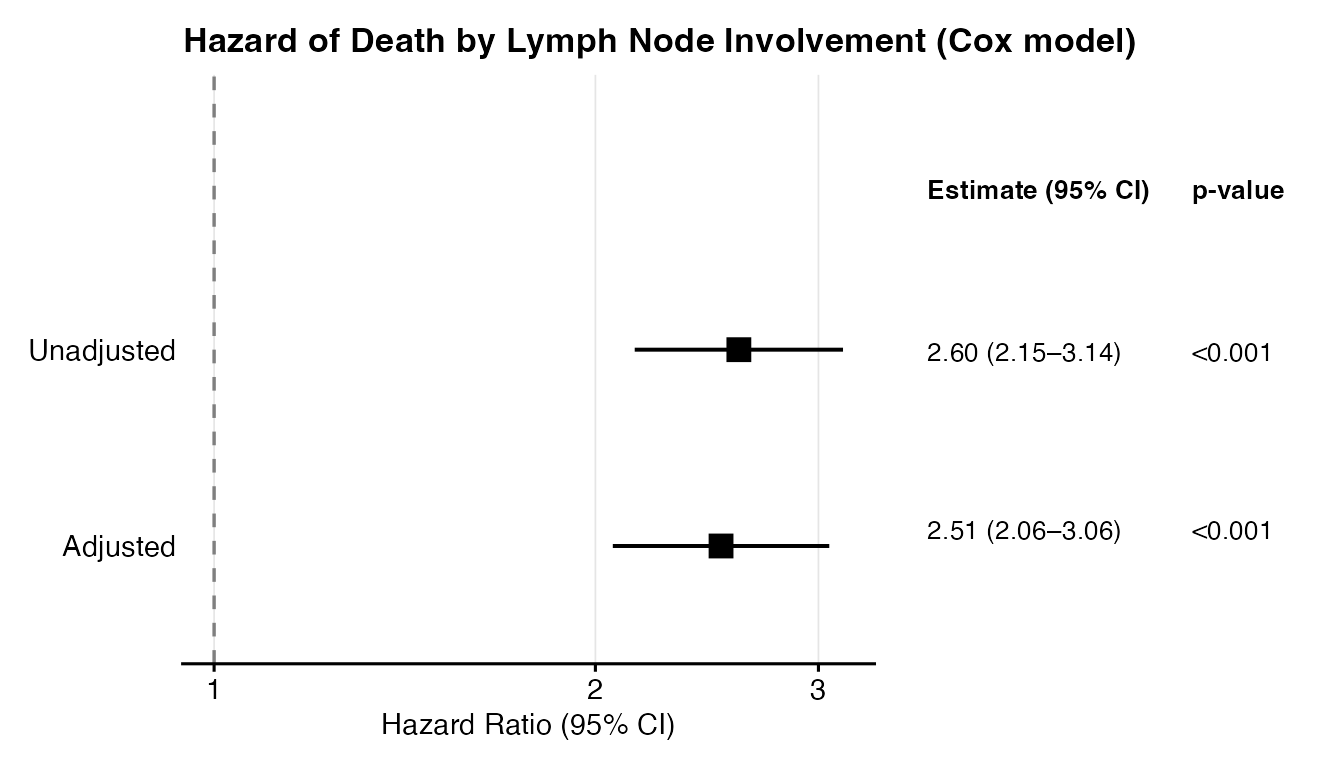
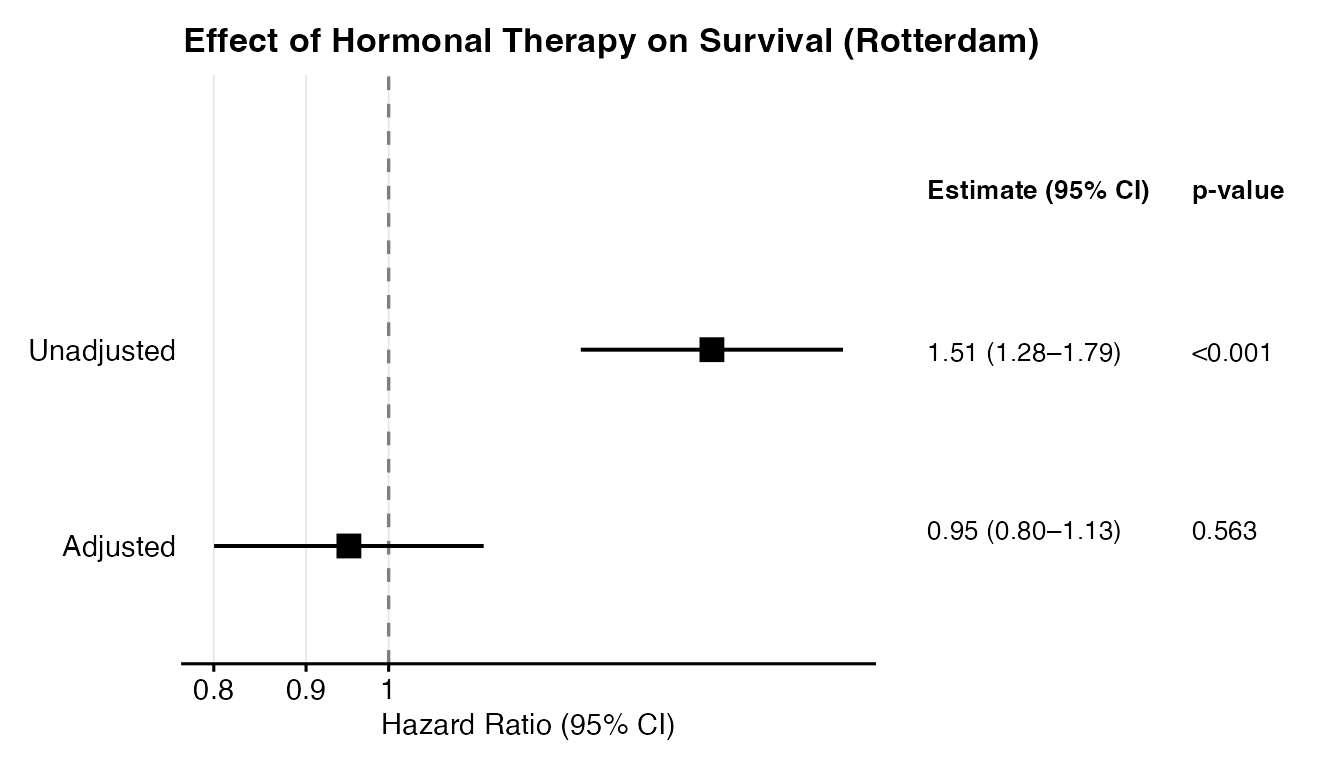
v0.1.1: CRAN install instructions; rotterdam Cox example
- Bump version to 0.1.1
- Update install instructions to reflect CRAN availability
- Replace vignette/README Cox example with rotterdam breast cancer data
  (hormonal therapy → survival, n=2982, Rotterdam tumour bank)
- Add tidyr::drop_na() data preparation step to Cox example
- Update NEWS.md

diff --git a/docs/articles/introduction.html b/docs/articles/introduction.html
@@ -20,7 +20,7 @@
 
     <a class="navbar-brand me-2" href="../index.html">ggadjustedforest</a>
 
-    <small class="nav-text text-muted me-auto" data-bs-toggle="tooltip" data-bs-placement="bottom" title="">0.1.0</small>
+    <small class="nav-text text-muted me-auto" data-bs-toggle="tooltip" data-bs-placement="bottom" title="">0.1.1</small>
 
 
     <button class="navbar-toggler" type="button" data-bs-toggle="collapse" data-bs-target="#navbar" aria-controls="navbar" aria-expanded="false" aria-label="Toggle navigation">
@@ -69,7 +69,10 @@
 <h2 id="installation">Installation<a class="anchor" aria-label="anchor" href="#installation"></a>
 </h2>
 <div class="sourceCode" id="cb1"><pre class="downlit sourceCode r">
-<code class="sourceCode R"><span><span class="co"># Install from GitHub (CRAN submission pending)</span></span>
+<code class="sourceCode R"><span><span class="co"># Install from CRAN</span></span>
+<span><span class="fu"><a href="https://rdrr.io/r/utils/install.packages.html" class="external-link">install.packages</a></span><span class="op">(</span><span class="st">"ggadjustedforest"</span><span class="op">)</span></span>
+<span></span>
+<span><span class="co"># Or install the development version from GitHub</span></span>
 <span><span class="co"># install.packages("remotes")</span></span>
 <span><span class="fu">remotes</span><span class="fu">::</span><span class="fu">install_github</span><span class="op">(</span><span class="st">"kriz98/gg_adjusted_forest"</span><span class="op">)</span></span></code></pre></div>
 </div>
@@ -215,17 +218,46 @@ epidemiological reporting — use <code>cumulative = TRUE</code>. Use
 <h2 id="cox-proportional-hazards-regression">Cox proportional hazards regression<a class="anchor" aria-label="anchor" href="#cox-proportional-hazards-regression"></a>
 </h2>
 <p>For time-to-event outcomes supply <code>model_type = "coxph"</code>
-along with <code>time_var</code> and <code>event_var</code>:</p>
+along with <code>time_var</code> and <code>event_var</code>. This
+example uses the <code>rotterdam</code> breast cancer dataset from the
+<strong>survival</strong> package (2,982 primary breast cancer patients;
+Rotterdam tumour bank). The exposure of interest is hormonal therapy
+(<code>hormon</code>), adjusted for age, tumour size, grade, number of
+positive lymph nodes, and oestrogen receptor level.</p>
 <div class="sourceCode" id="cb7"><pre class="downlit sourceCode r">
-<code class="sourceCode R"><span><span class="va">result_cox</span> <span class="op">&lt;-</span> <span class="fu"><a href="../reference/gg_adjusted_forest.html">gg_adjusted_forest</a></span><span class="op">(</span></span>
-<span>  data       <span class="op">=</span> <span class="va">colon_s</span>,</span>
-<span>  outcome    <span class="op">=</span> <span class="st">"status"</span>,</span>
-<span>  exposure   <span class="op">=</span> <span class="st">"node4"</span>,</span>
-<span>  covariates <span class="op">=</span> <span class="va">confounders</span>,</span>
+<code class="sourceCode R"><span><span class="kw"><a href="https://rdrr.io/r/base/library.html" class="external-link">library</a></span><span class="op">(</span><span class="va"><a href="https://dplyr.tidyverse.org" class="external-link">dplyr</a></span><span class="op">)</span></span>
+<span><span class="co">#&gt; </span></span>
+<span><span class="co">#&gt; Attaching package: 'dplyr'</span></span>
+<span><span class="co">#&gt; The following objects are masked from 'package:stats':</span></span>
+<span><span class="co">#&gt; </span></span>
+<span><span class="co">#&gt;     filter, lag</span></span>
+<span><span class="co">#&gt; The following objects are masked from 'package:base':</span></span>
+<span><span class="co">#&gt; </span></span>
+<span><span class="co">#&gt;     intersect, setdiff, setequal, union</span></span>
+<span><span class="fu"><a href="https://rdrr.io/r/utils/data.html" class="external-link">data</a></span><span class="op">(</span><span class="va">cancer</span>, package <span class="op">=</span> <span class="st">"survival"</span><span class="op">)</span></span>
+<span></span>
+<span><span class="va">df</span> <span class="op">&lt;-</span> <span class="va">rotterdam</span> <span class="op">|&gt;</span></span>
+<span>  <span class="fu"><a href="https://dplyr.tidyverse.org/reference/transmute.html" class="external-link">transmute</a></span><span class="op">(</span></span>
+<span>    hormon <span class="op">=</span> <span class="va">hormon</span>,       <span class="co"># 1 = hormonal therapy, 0 = none</span></span>
+<span>    age    <span class="op">=</span> <span class="va">age</span>,</span>
+<span>    size   <span class="op">=</span> <span class="va">size</span>,         <span class="co"># tumour size (mm)</span></span>
+<span>    grade  <span class="op">=</span> <span class="va">grade</span>,        <span class="co"># tumour grade</span></span>
+<span>    nodes  <span class="op">=</span> <span class="va">nodes</span>,        <span class="co"># positive lymph nodes</span></span>
+<span>    er10   <span class="op">=</span> <span class="va">er</span> <span class="op">/</span> <span class="fl">10</span>,      <span class="co"># oestrogen receptor (fmol/10 l)</span></span>
+<span>    death  <span class="op">=</span> <span class="va">death</span>,</span>
+<span>    time   <span class="op">=</span> <span class="va">dtime</span></span>
+<span>  <span class="op">)</span> <span class="op">|&gt;</span></span>
+<span>  <span class="fu">tidyr</span><span class="fu">::</span><span class="fu"><a href="https://tidyr.tidyverse.org/reference/drop_na.html" class="external-link">drop_na</a></span><span class="op">(</span><span class="op">)</span></span>
+<span></span>
+<span><span class="va">result_cox</span> <span class="op">&lt;-</span> <span class="fu"><a href="../reference/gg_adjusted_forest.html">gg_adjusted_forest</a></span><span class="op">(</span></span>
+<span>  data       <span class="op">=</span> <span class="va">df</span>,</span>
+<span>  outcome    <span class="op">=</span> <span class="st">"death"</span>,</span>
+<span>  exposure   <span class="op">=</span> <span class="st">"hormon"</span>,</span>
+<span>  covariates <span class="op">=</span> <span class="fu"><a href="https://rdrr.io/r/base/c.html" class="external-link">c</a></span><span class="op">(</span><span class="st">"age"</span>, <span class="st">"size"</span>, <span class="st">"grade"</span>, <span class="st">"nodes"</span>, <span class="st">"er10"</span><span class="op">)</span>,</span>
 <span>  model_type <span class="op">=</span> <span class="st">"coxph"</span>,</span>
-<span>  time_var   <span class="op">=</span> <span class="st">"time.years"</span>,</span>
-<span>  event_var  <span class="op">=</span> <span class="st">"status"</span>,</span>
-<span>  title      <span class="op">=</span> <span class="st">"Hazard of Death by Lymph Node Involvement (Cox model)"</span></span>
+<span>  time_var   <span class="op">=</span> <span class="st">"time"</span>,</span>
+<span>  event_var  <span class="op">=</span> <span class="st">"death"</span>,</span>
+<span>  title      <span class="op">=</span> <span class="st">"Effect of Hormonal Therapy on Survival (Rotterdam)"</span></span>
 <span><span class="op">)</span></span>
 <span><span class="va">result_cox</span><span class="op">$</span><span class="va">plot</span></span></code></pre></div>
 <p><img src="introduction_files/figure-html/cox-1.png" class="r-plt" alt="" width="672"></p>

diff --git a/docs/index.html b/docs/index.html
@@ -22,7 +22,7 @@
 
     <a class="navbar-brand me-2" href="index.html">ggadjustedforest</a>
 
-    <small class="nav-text text-muted me-auto" data-bs-toggle="tooltip" data-bs-placement="bottom" title="">0.1.0</small>
+    <small class="nav-text text-muted me-auto" data-bs-toggle="tooltip" data-bs-placement="bottom" title="">0.1.1</small>
 
 
     <button class="navbar-toggler" type="button" data-bs-toggle="collapse" data-bs-target="#navbar" aria-controls="navbar" aria-expanded="false" aria-label="Toggle navigation">
@@ -67,7 +67,10 @@
 <h2 id="installation">Installation<a class="anchor" aria-label="anchor" href="#installation"></a>
 </h2>
 <div class="sourceCode" id="cb1"><pre class="downlit sourceCode r">
-<code class="sourceCode R"><span><span class="co"># Install from GitHub (CRAN submission pending)</span></span>
+<code class="sourceCode R"><span><span class="co"># Install from CRAN</span></span>
+<span><span class="fu"><a href="https://rdrr.io/r/utils/install.packages.html" class="external-link">install.packages</a></span><span class="op">(</span><span class="st">"ggadjustedforest"</span><span class="op">)</span></span>
+<span></span>
+<span><span class="co"># Or install the development version from GitHub</span></span>
 <span><span class="co"># install.packages("remotes")</span></span>
 <span><span class="fu">remotes</span><span class="fu">::</span><span class="fu">install_github</span><span class="op">(</span><span class="st">"kriz98/gg_adjusted_forest"</span><span class="op">)</span></span></code></pre></div>
 </div>
@@ -76,7 +79,7 @@
 </h2>
 <p>The examples below use <code>colon_s</code> from the <code>finalfit</code> package — 929 colon cancer patients from the NCCTG trial. The research question is whether having &gt;4 positive lymph nodes (<code>node4</code>) increases 5-year mortality (<code>mort_5yr</code>), before and after adjusting for patient and tumour characteristics.</p>
 <div class="sourceCode" id="cb2"><pre class="downlit sourceCode r">
-<code class="sourceCode R"><span><span class="kw"><a href="https://rdrr.io/r/base/library.html" class="external-link">library</a></span><span class="op">(</span><span class="va"><a href="https://github.com/chrisvarghese/ggadjustedforest" class="external-link">ggadjustedforest</a></span><span class="op">)</span></span>
+<code class="sourceCode R"><span><span class="kw"><a href="https://rdrr.io/r/base/library.html" class="external-link">library</a></span><span class="op">(</span><span class="va"><a href="https://github.com/kriz98/gg_adjusted_forest" class="external-link">ggadjustedforest</a></span><span class="op">)</span></span>
 <span><span class="kw"><a href="https://rdrr.io/r/base/library.html" class="external-link">library</a></span><span class="op">(</span><span class="va"><a href="https://github.com/ewenharrison/finalfit" class="external-link">finalfit</a></span><span class="op">)</span>  <span class="co"># for colon_s</span></span>
 <span></span>
 <span><span class="fu"><a href="https://rdrr.io/r/utils/data.html" class="external-link">data</a></span><span class="op">(</span><span class="va">colon_s</span><span class="op">)</span></span>
@@ -127,16 +130,32 @@
 <span>                          show_table <span class="op">=</span> <span class="cn">FALSE</span><span class="op">)</span><span class="op">$</span><span class="va">plot</span></span>
 <span><span class="va">p1</span> <span class="op">/</span> <span class="va">p2</span></span>
 <span></span>
-<span><span class="co"># Cox proportional hazards</span></span>
+<span><span class="co"># Cox proportional hazards — rotterdam breast cancer data (survival package)</span></span>
+<span><span class="kw"><a href="https://rdrr.io/r/base/library.html" class="external-link">library</a></span><span class="op">(</span><span class="va"><a href="https://dplyr.tidyverse.org" class="external-link">dplyr</a></span><span class="op">)</span></span>
+<span><span class="fu"><a href="https://rdrr.io/r/utils/data.html" class="external-link">data</a></span><span class="op">(</span><span class="va">cancer</span>, package <span class="op">=</span> <span class="st">"survival"</span><span class="op">)</span></span>
+<span></span>
+<span><span class="va">df</span> <span class="op">&lt;-</span> <span class="va">rotterdam</span> <span class="op">|&gt;</span></span>
+<span>  <span class="fu"><a href="https://dplyr.tidyverse.org/reference/transmute.html" class="external-link">transmute</a></span><span class="op">(</span></span>
+<span>    hormon <span class="op">=</span> <span class="va">hormon</span>,</span>
+<span>    age    <span class="op">=</span> <span class="va">age</span>,</span>
+<span>    size   <span class="op">=</span> <span class="va">size</span>,</span>
+<span>    grade  <span class="op">=</span> <span class="va">grade</span>,</span>
+<span>    nodes  <span class="op">=</span> <span class="va">nodes</span>,</span>
+<span>    er10   <span class="op">=</span> <span class="va">er</span> <span class="op">/</span> <span class="fl">10</span>,</span>
+<span>    death  <span class="op">=</span> <span class="va">death</span>,</span>
+<span>    time   <span class="op">=</span> <span class="va">dtime</span></span>
+<span>  <span class="op">)</span> <span class="op">|&gt;</span></span>
+<span>  <span class="fu">tidyr</span><span class="fu">::</span><span class="fu"><a href="https://tidyr.tidyverse.org/reference/drop_na.html" class="external-link">drop_na</a></span><span class="op">(</span><span class="op">)</span></span>
+<span></span>
 <span><span class="va">cox_result</span> <span class="op">&lt;-</span> <span class="fu"><a href="reference/gg_adjusted_forest.html">gg_adjusted_forest</a></span><span class="op">(</span></span>
-<span>  data       <span class="op">=</span> <span class="va">colon_s</span>,</span>
-<span>  outcome    <span class="op">=</span> <span class="st">"status"</span>,</span>
-<span>  exposure   <span class="op">=</span> <span class="st">"node4"</span>,</span>
-<span>  covariates <span class="op">=</span> <span class="va">confounders</span>,</span>
+<span>  data       <span class="op">=</span> <span class="va">df</span>,</span>
+<span>  outcome    <span class="op">=</span> <span class="st">"death"</span>,</span>
+<span>  exposure   <span class="op">=</span> <span class="st">"hormon"</span>,</span>
+<span>  covariates <span class="op">=</span> <span class="fu"><a href="https://rdrr.io/r/base/c.html" class="external-link">c</a></span><span class="op">(</span><span class="st">"age"</span>, <span class="st">"size"</span>, <span class="st">"grade"</span>, <span class="st">"nodes"</span>, <span class="st">"er10"</span><span class="op">)</span>,</span>
 <span>  model_type <span class="op">=</span> <span class="st">"coxph"</span>,</span>
-<span>  time_var   <span class="op">=</span> <span class="st">"time.years"</span>,</span>
-<span>  event_var  <span class="op">=</span> <span class="st">"status"</span>,</span>
-<span>  title      <span class="op">=</span> <span class="st">"Hazard of Death by Lymph Node Involvement"</span></span>
+<span>  time_var   <span class="op">=</span> <span class="st">"time"</span>,</span>
+<span>  event_var  <span class="op">=</span> <span class="st">"death"</span>,</span>
+<span>  title      <span class="op">=</span> <span class="st">"Effect of Hormonal Therapy on Survival (Rotterdam)"</span></span>
 <span><span class="op">)</span></span>
 <span><span class="va">cox_result</span><span class="op">$</span><span class="va">plot</span></span></code></pre></div>
 </div>
@@ -191,6 +210,7 @@
   </main><aside class="col-md-3"><div class="links">
 <h2 data-toc-skip>Links</h2>
 <ul class="list-unstyled">
+<li><a href="https://cloud.r-project.org/package=ggadjustedforest" class="external-link">View on CRAN</a></li>
 <li><a href="https://github.com/kriz98/gg_adjusted_forest/" class="external-link">Browse source code</a></li>
 <li><a href="https://github.com/kriz98/gg_adjusted_forest/issues" class="external-link">Report a bug</a></li>
 </ul>

diff --git a/docs/news/index.html b/docs/news/index.html
@@ -7,7 +7,7 @@
 
     <a class="navbar-brand me-2" href="../index.html">ggadjustedforest</a>
 
-    <small class="nav-text text-muted me-auto" data-bs-toggle="tooltip" data-bs-placement="bottom" title="">0.1.0</small>
+    <small class="nav-text text-muted me-auto" data-bs-toggle="tooltip" data-bs-placement="bottom" title="">0.1.1</small>
 
 
     <button class="navbar-toggler" type="button" data-bs-toggle="collapse" data-bs-target="#navbar" aria-controls="navbar" aria-expanded="false" aria-label="Toggle navigation">
@@ -37,7 +37,16 @@
     </div>
 
     <div class="section level2">
-<h2 class="pkg-version" data-toc-text="0.1.0" id="ggadjustedforest-010">ggadjustedforest 0.1.0<a class="anchor" aria-label="anchor" href="#ggadjustedforest-010"></a></h2>
+<h2 class="pkg-version" data-toc-text="0.1.1" id="ggadjustedforest-011">ggadjustedforest 0.1.1<a class="anchor" aria-label="anchor" href="#ggadjustedforest-011"></a></h2>
+<div class="section level3">
+<h3 id="documentation-0-1-1">Documentation<a class="anchor" aria-label="anchor" href="#documentation-0-1-1"></a></h3>
+<ul><li>Updated vignette and README examples to use the <code>rotterdam</code> breast cancer dataset (from <strong>survival</strong>) for the Cox model demonstration.</li>
+<li>Installation instructions updated to reflect CRAN availability.</li>
+<li>Long plot titles now wrap automatically to prevent clipping.</li>
+</ul></div>
+</div>
+    <div class="section level2">
+<h2 class="pkg-version" data-toc-text="0.1.0" id="ggadjustedforest-010">ggadjustedforest 0.1.0<a class="anchor" aria-label="anchor" href="#ggadjustedforest-010"></a></h2><p class="text-muted">CRAN release: 2026-07-17</p>
 <div class="section level3">
 <h3 id="initial-release-0-1-0">Initial release<a class="anchor" aria-label="anchor" href="#initial-release-0-1-0"></a></h3>
 <ul><li>

diff --git a/docs/authors.html b/docs/authors.html
@@ -7,7 +7,7 @@
 
     <a class="navbar-brand me-2" href="index.html">ggadjustedforest</a>
 
-    <small class="nav-text text-muted me-auto" data-bs-toggle="tooltip" data-bs-placement="bottom" title="">0.1.0</small>
+    <small class="nav-text text-muted me-auto" data-bs-toggle="tooltip" data-bs-placement="bottom" title="">0.1.1</small>
 
 
     <button class="navbar-toggler" type="button" data-bs-toggle="collapse" data-bs-target="#navbar" aria-controls="navbar" aria-expanded="false" aria-label="Toggle navigation">
@@ -50,13 +50,13 @@
 
       <p>Varghese C (2026).
 <em>ggadjustedforest: Publication Ready Forest Plots for Estimand of Interest</em>.
-R package version 0.1.0, <a href="https://github.com/kriz98/gg_adjusted_forest" class="external-link">https://github.com/kriz98/gg_adjusted_forest</a>.
+R package version 0.1.1, <a href="https://github.com/kriz98/gg_adjusted_forest" class="external-link">https://github.com/kriz98/gg_adjusted_forest</a>.
 </p>
       <pre>@Manual{,
   title = {ggadjustedforest: Publication Ready Forest Plots for Estimand of Interest},
   author = {Chris Varghese},
   year = {2026},
-  note = {R package version 0.1.0},
+  note = {R package version 0.1.1},
   url = {https://github.com/kriz98/gg_adjusted_forest},
 }</pre>
     </div>

diff --git a/docs/404.html b/docs/404.html
@@ -20,7 +20,7 @@
 
     <a class="navbar-brand me-2" href="https://kriz98.github.io/gg_adjusted_forest/index.html">ggadjustedforest</a>
 
-    <small class="nav-text text-muted me-auto" data-bs-toggle="tooltip" data-bs-placement="bottom" title="">0.1.0</small>
+    <small class="nav-text text-muted me-auto" data-bs-toggle="tooltip" data-bs-placement="bottom" title="">0.1.1</small>
 
 
     <button class="navbar-toggler" type="button" data-bs-toggle="collapse" data-bs-target="#navbar" aria-controls="navbar" aria-expanded="false" aria-label="Toggle navigation">

diff --git a/docs/LICENSE-text.html b/docs/LICENSE-text.html
@@ -7,7 +7,7 @@
 
     <a class="navbar-brand me-2" href="index.html">ggadjustedforest</a>
 
-    <small class="nav-text text-muted me-auto" data-bs-toggle="tooltip" data-bs-placement="bottom" title="">0.1.0</small>
+    <small class="nav-text text-muted me-auto" data-bs-toggle="tooltip" data-bs-placement="bottom" title="">0.1.1</small>
 
 
     <button class="navbar-toggler" type="button" data-bs-toggle="collapse" data-bs-target="#navbar" aria-controls="navbar" aria-expanded="false" aria-label="Toggle navigation">

diff --git a/docs/LICENSE.html b/docs/LICENSE.html
@@ -7,7 +7,7 @@
 
     <a class="navbar-brand me-2" href="index.html">ggadjustedforest</a>
 
-    <small class="nav-text text-muted me-auto" data-bs-toggle="tooltip" data-bs-placement="bottom" title="">0.1.0</small>
+    <small class="nav-text text-muted me-auto" data-bs-toggle="tooltip" data-bs-placement="bottom" title="">0.1.1</small>
 
 
     <button class="navbar-toggler" type="button" data-bs-toggle="collapse" data-bs-target="#navbar" aria-controls="navbar" aria-expanded="false" aria-label="Toggle navigation">

diff --git a/docs/articles/index.html b/docs/articles/index.html
@@ -7,7 +7,7 @@
 
     <a class="navbar-brand me-2" href="../index.html">ggadjustedforest</a>
 
-    <small class="nav-text text-muted me-auto" data-bs-toggle="tooltip" data-bs-placement="bottom" title="">0.1.0</small>
+    <small class="nav-text text-muted me-auto" data-bs-toggle="tooltip" data-bs-placement="bottom" title="">0.1.1</small>
 
 
     <button class="navbar-toggler" type="button" data-bs-toggle="collapse" data-bs-target="#navbar" aria-controls="navbar" aria-expanded="false" aria-label="Toggle navigation">

diff --git a/README.md b/README.md
@@ -20,7 +20,10 @@ effect cleanly, before and after adjustment.
 ## Installation
 
 ```r
-# Install from GitHub (CRAN submission pending)
+# Install from CRAN
+install.packages("ggadjustedforest")
+
+# Or install the development version from GitHub
 # install.packages("remotes")
 remotes::install_github("kriz98/gg_adjusted_forest")
 ```
@@ -84,16 +87,32 @@ p2 <- gg_adjusted_forest(colon_s, "status",   "node4", confounders,
                           show_table = FALSE)$plot
 p1 / p2
 
-# Cox proportional hazards
+# Cox proportional hazards — rotterdam breast cancer data (survival package)
+library(dplyr)
+data(cancer, package = "survival")
+
+df <- rotterdam |>
+  transmute(
+    hormon = hormon,
+    age    = age,
+    size   = size,
+    grade  = grade,
+    nodes  = nodes,
+    er10   = er / 10,
+    death  = death,
+    time   = dtime
+  ) |>
+  tidyr::drop_na()
+
 cox_result <- gg_adjusted_forest(
-  data       = colon_s,
-  outcome    = "status",
-  exposure   = "node4",
-  covariates = confounders,
+  data       = df,
+  outcome    = "death",
+  exposure   = "hormon",
+  covariates = c("age", "size", "grade", "nodes", "er10"),
   model_type = "coxph",
-  time_var   = "time.years",
-  event_var  = "status",
-  title      = "Hazard of Death by Lymph Node Involvement"
+  time_var   = "time",
+  event_var  = "death",
+  title      = "Effect of Hormonal Therapy on Survival (Rotterdam)"
 )
 cox_result$plot
 ```

diff --git a/NEWS.md b/NEWS.md
@@ -1,3 +1,12 @@
+# ggadjustedforest 0.1.1
+
+## Documentation
+
+* Updated vignette and README examples to use the `rotterdam` breast cancer
+  dataset (from **survival**) for the Cox model demonstration.
+* Installation instructions updated to reflect CRAN availability.
+* Long plot titles now wrap automatically to prevent clipping.
+
 # ggadjustedforest 0.1.0
 
 ## Initial release